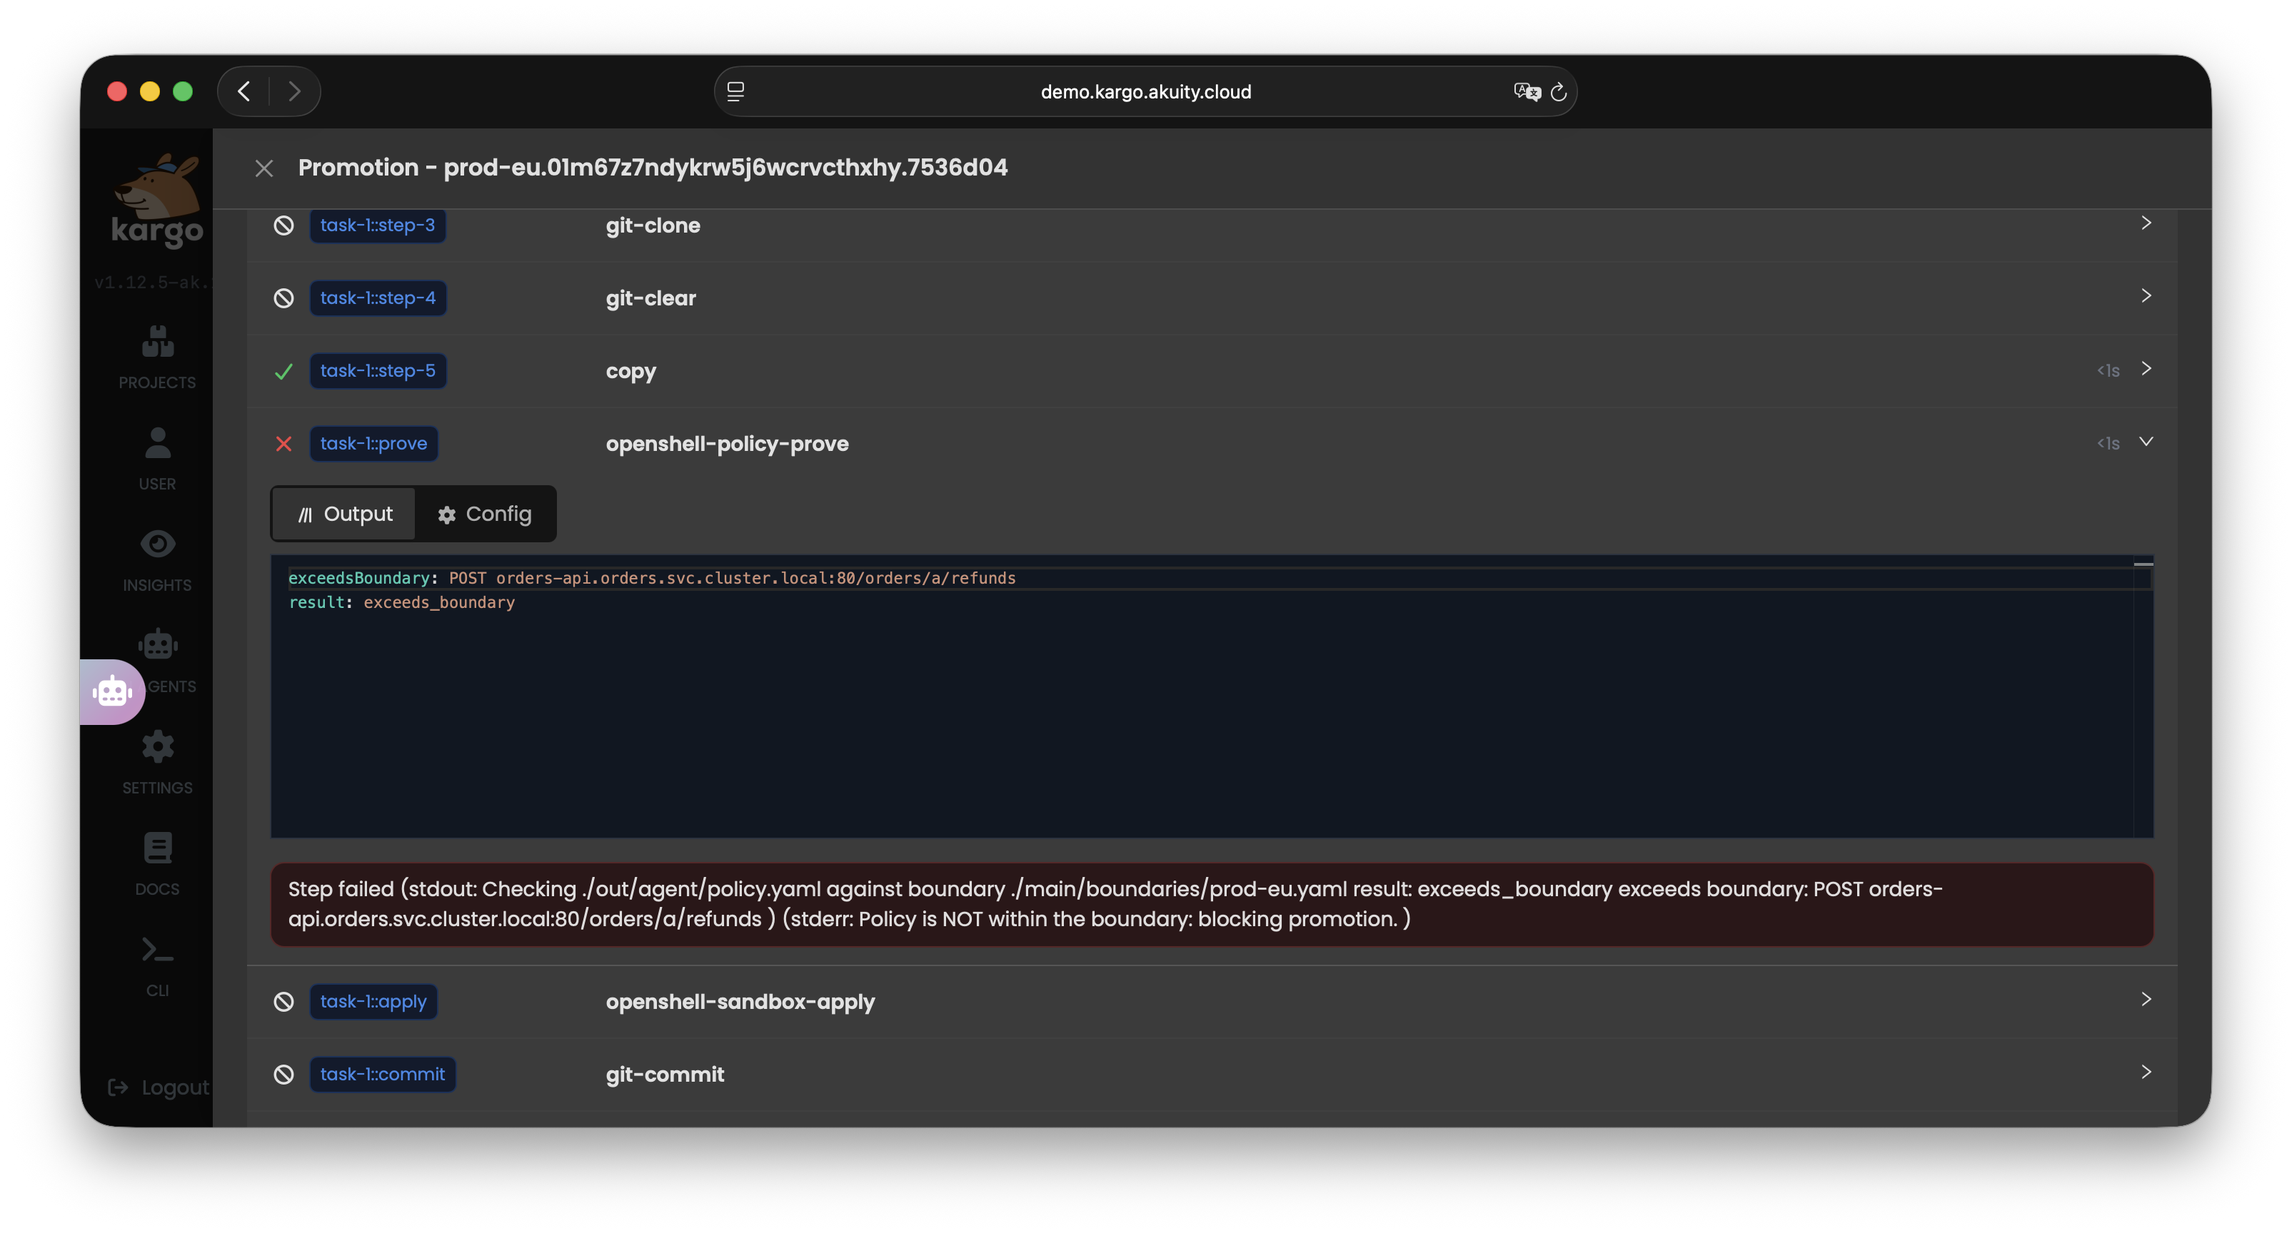
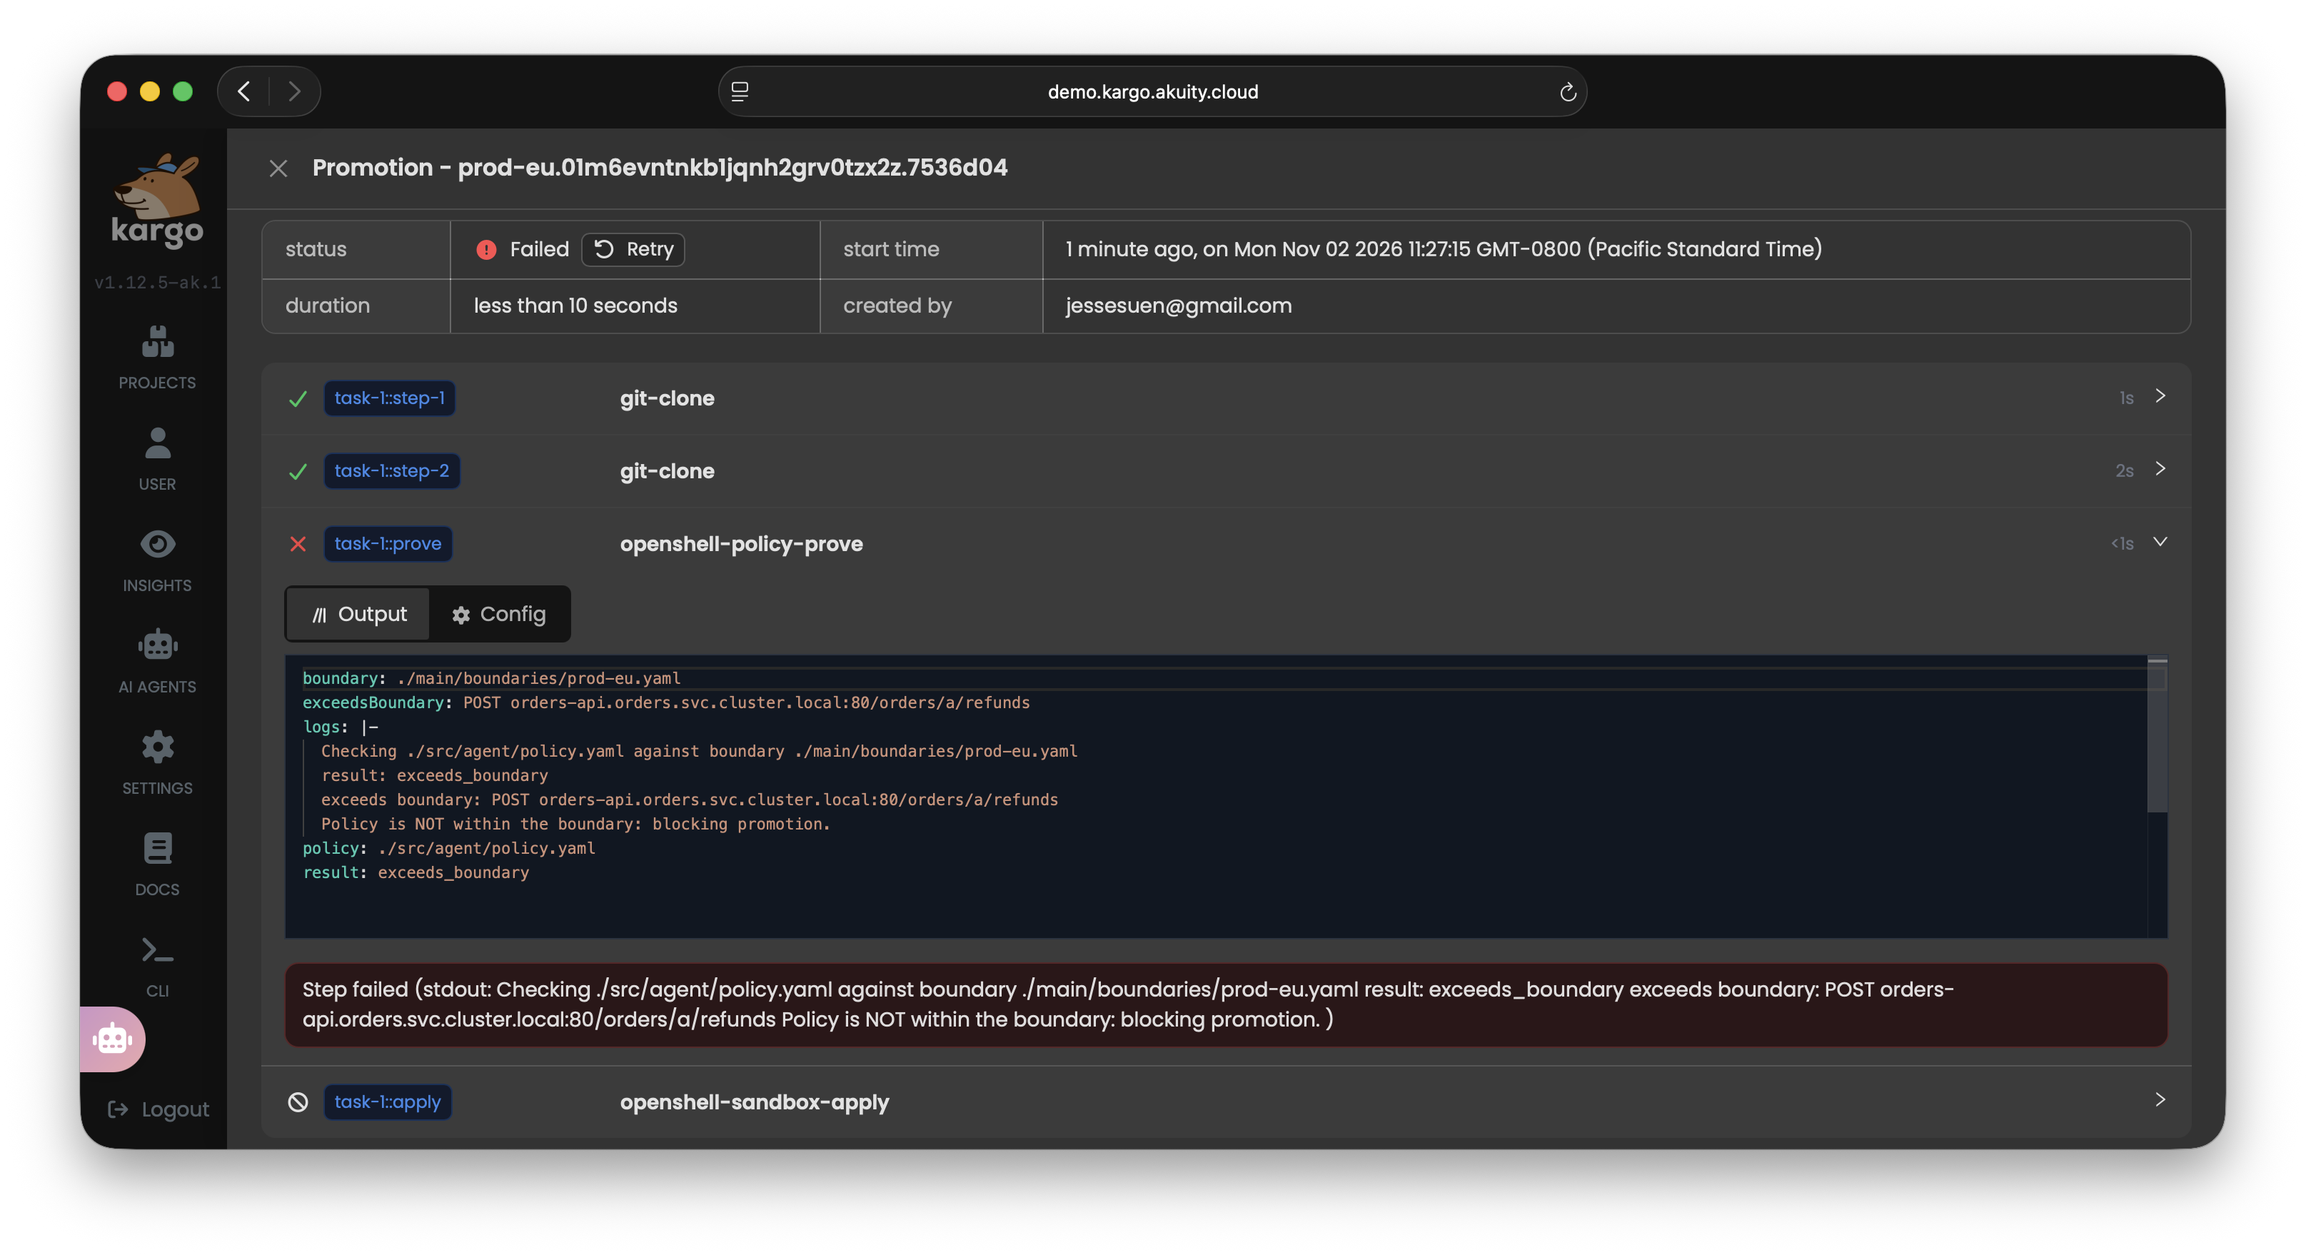
Remove stage branches, and trim the README

diff --git a/README.md b/README.md
@@ -31,7 +31,7 @@ The demo spans two repos, split by who owns what:
 | Repo | Owner | Contains |
 |---|---|---|
 | [`support-agent-demo`](https://github.com/akuity/support-agent-demo) | Agent team | The harness image and the agent bundle (`agent/`) |
-| this repo | Platform and security | The platform, the stage boundaries, the Kargo pipeline, and (optionally) the `stage/*` branches recording what runs where |
+| this repo | Platform and security | The platform, the stage boundaries, and the Kargo pipeline |
 
 The agent team can change anything about the agent, but can't change what a
 stage allows. Widening a boundary is a pull request to this repo.
@@ -59,10 +59,7 @@ flowchart LR
 Argo CD manages everything Kubernetes-native, the long-lived platform the
 agents run on:
 * **[Agent Sandbox](https://github.com/kubernetes-sigs/agent-sandbox)
-  controller:** a separate Kubernetes SIG project, not part of OpenShell. Its
-  `Sandbox` CRD and controller are the runtime OpenShell's gateway uses on
-  Kubernetes: the gateway creates `Sandbox` objects, and the controller runs
-  them as pods.
+  controller:** a Kubernetes SIG project that runs OpenShell's sandboxes as pods.
 * **[OpenShell](https://github.com/NVIDIA/OpenShell) gateway:** OpenShell's API
   server, installed from its Helm chart. It creates and manages the sandboxes
   (see [OpenShell in brief](#openshell-in-brief)).
@@ -77,8 +74,6 @@ Kargo manages the agent lifecycle itself, one version at a time. It:
 * **Applies the agent to the stage's sandbox** through the OpenShell gateway,
   creating or updating it. The prove and apply steps run as
   [Custom Steps](#custom-steps).
-* **Optionally records each stage's state in Git** (the `stage/<stage>`
-  branches), as an audit trail of what ran where.
 * **Verifies each version** by running the agent's evals against the live
   sandbox after every promotion. Freight that fails can't be promoted to the
   next stage.
@@ -166,13 +161,12 @@ variable, and the apply step passes it to the sandbox as `ORDERS_API_URL`.
 %%{init: {"themeVariables": {"fontSize": "12px"}, "flowchart": {"nodeSpacing": 20, "rankSpacing": 30, "padding": 6}}}%%
 flowchart LR
     subgraph promotion["Promotion"]
-        prove["Prove policy ⊆<br/>stage boundary"] --> apply["Apply<br/>sandbox"] --> commit["Commit<br/>stage/{stage} branch<br/>(optional)"]
+        prove["Prove policy ⊆<br/>stage boundary"] --> apply["Apply<br/>sandbox"]
     end
     subgraph verification["Verification"]
         evals["Run evals against<br/>the live sandbox"]
     end
     promotion --> verification
-    style commit stroke-dasharray: 5 5
 ```
 
 The [promotion](setup/kargo/20_promotion-task.yaml) runs these steps:
@@ -183,15 +177,12 @@ The [promotion](setup/kargo/20_promotion-task.yaml) runs these steps:
    SMT (Satisfiability Modulo Theories) solver that `policy.yaml` grants
    nothing beyond `boundaries/<stage>.yaml`. Any result other than
    `within_boundary` fails the promotion here, so the blocked version never
-   reaches the sandbox or the stage branch.
+   reaches the sandbox.
 3. **`openshell-sandbox-apply`** ([Custom Step](#custom-steps)). Runs the
    bundle on the Freight's image, by digest. Changes to the image, environment
    variables, filesystem rules or process rules recreate the sandbox, because
    OpenShell locks those when a sandbox is created. Network rules and bundle
    files are updated in place.
-4. **Commit and push** `stage/<stage>` *(optional, off by default)*, only
-   after a successful apply. See [Stage branches](#stage-branches-optional)
-   below.
 
 Once the promotion succeeds, the Stage's
 [verification](setup/kargo/30_analysis-template.yaml) runs as a separate
@@ -201,13 +192,6 @@ allow and deny probes. Freight that fails verification stays in the stage it
 reached but can't be promoted any further.
 
 Rolling back means re-promoting earlier Freight; the same steps run.
-
-> [!TIP]
-> Add a new permission as its own named network policy, as `orders_api_refunds`
-> does, rather than as another allow rule on an existing endpoint. The prover
-> checks the separate rule instantly and reports a concrete counterexample. The
-> same permission added as a third rule on the existing endpoint can make the
-> prover time out, which still blocks the promotion but explains nothing.
 
 ### Custom Steps
 
@@ -230,15 +214,14 @@ Git and let Argo CD sync it. That doesn't work for OpenShell sandboxes yet:
 So the promotion drives the gateway directly, through two
 [Kargo Enterprise Custom Steps](setup/kargo/10_custom-steps.yaml). A Custom
 Step runs a container in the promotion pod, sharing the working directory with
-the built-in steps, so it reads the bundle the `git-clone` and `copy` steps
-checked out. Both use the
+the built-in steps, so it reads the bundle the `git-clone` step checked out. Both use the
 [`openshell-tools`](images/openshell-tools/) image, which holds the OpenShell
 CLI, the prover, and the wrapper scripts that mimic the `openshell` CLI:
 
 | Step | Input | What it does | Output |
 |---|---|---|---|
-| `openshell-policy-prove` | `--policy` (the bundle's `policy.yaml`) and `--boundary` (the stage's), as for `openshell-prover check` | Runs the prover. Fails the step on anything other than `within_boundary`, and prints the counterexample when there is one | `result`; `exceedsBoundary` with the counterexample; the `policy` and `boundary` checked; `logs` |
-| `openshell-sandbox-apply` | `--name`, `--from` (the Freight's image, by digest), `--policy`, `--provider`, `--upload` (the bundle) and `--env` (the stage's Orders API URL), as for `openshell sandbox create` | Reconciles the sandbox: creates it if it's missing; deletes and recreates it if the image, the environment, or the filesystem or process rules changed; otherwise applies the network rules with `policy set --wait` and uploads the bundle, with no restart | `action` (`created`, `recreated` or `updated`) and the `reason`; the startup hash; `logs`, with each `openshell` command and its output |
+| `openshell-policy-prove` | The bundle's policy and the stage's boundary | Runs the prover. Fails the step on anything other than `within_boundary`, and prints the counterexample when there is one | `result`; `exceedsBoundary` with the counterexample; the `policy` and `boundary` checked; `logs` |
+| `openshell-sandbox-apply` | Sandbox name, the Freight's image, policy, provider, bundle, the stage's Orders API URL | Reconciles the sandbox: creates it if it's missing; deletes and recreates it if the image, the environment, or the filesystem or process rules changed; otherwise applies the network rules with `policy set --wait` and uploads the bundle, with no restart | `action` (`created`, `recreated` or `updated`) and the `reason`; the startup hash; `logs`, with each `openshell` command and its output |
 
 Both steps return a `logs` output with everything they printed, so the
 promotion's details in the Kargo UI show what each step did, even when it
@@ -248,55 +231,9 @@ succeeds.
 OpenShell doesn't have yet. In the future, this step could become "write the
 sandbox to Git", and Argo CD would sync it like any other resource.
 
-Custom Steps can't mount Secrets, so the gateway's client TLS bundle reaches
-the apply step through its config, from the `openshell-gateway-tls`
-credentials (see [Setup](#2-kargo)). Verification doesn't use a Custom Step:
-`openshell-run-evals` runs in an ordinary Job from the
-[AnalysisTemplate](setup/kargo/30_analysis-template.yaml), in the same image.
-
-### Stage branches (optional)
-
-Step 4 commits the bundle to a branch per stage (`stage/dev`,
-`stage/prod-us`, `stage/prod-eu`) in this repo. It's off by
-default: nothing reconciles from these branches, the sandbox is applied the same
-way either way, and Kargo already tracks which Freight is in each stage. What the branches add
-is a Git-native record:
-
-- `git log stage/prod-us` lists every agent version that ran there, and when.
-- `git diff stage/dev stage/prod-us` shows exactly what promoting would
-  change: prompt, tools, policy, model.
-- A version the prover blocks, or whose apply fails, never appears on the
-  branch.
-
-To turn them on, set the `stageBranches` variable to `"true"`: either its
-default in `setup/kargo/20_promotion-task.yaml`, or for a single Stage in
-`setup/kargo/50_stages.yaml`:
-
-```yaml
-promotionTemplate:
-  spec:
-    steps:
-      - task:
-          name: promote-agent
-        vars:
-          - name: stageBranches
-            value: "true"
-```
-
-Kargo then needs write access to this repo, so use your own fork (see
-[Using your own copies](#using-your-own-copies)) and give Kargo credentials for
-it:
-
-```sh
-kargo create repo-credentials --project acme-support agent-delivery-demo \
-  --git --repo-url https://github.com/<your-github-org>/agent-delivery-demo.git \
-  --username <github-username> --password <token-with-contents-write>
-```
-
-The branches also point at where this goes next. With an OpenShell operator
-(see [#1719](https://github.com/NVIDIA/OpenShell/issues/1719)), Argo CD could
-sync each sandbox from its stage branch, turning the record into the source of
-truth.
+Verification doesn't use a Custom Step: `openshell-run-evals` runs in an
+ordinary Job from the [AnalysisTemplate](setup/kargo/30_analysis-template.yaml),
+in the same image.
 
 ## What's where
 
@@ -395,17 +332,12 @@ To change the agent or the boundaries yourself, see
    ```sh
    kargo apply -f setup/kargo/
    ```
-   Kargo creates the Project first, and the numeric prefixes order the rest.
-   This doesn't include the `freight/` subdirectory. Re-run it whenever you
-   change these files.
+   Re-run it whenever you change these files. This doesn't include the `freight/` subdirectory.
 3. Create the Freight, one per agent version:
    ```sh
    kargo apply -f setup/kargo/freight/
    ```
-   Each piece of Freight pins one commit of the `support-agent-demo` repo and
-   the harness image digest, and has an alias such as `v1-initial` that the
-   walkthrough promotes by name. Kargo checks each one against the Warehouse,
-   so apply this after step 2. Do it once: Freight is immutable, so applying it
+   Apply it after step 2, and only once: Freight is immutable, so applying it
    again only reports that the aliases are already taken.
 4. Give the project the gateway's client certificate, which the Custom Steps and
    verification use to call the gateway. The values are the base64 strings from
@@ -434,7 +366,6 @@ that has passed verification in the stage before it, so wait for verification
 to finish (`kargo get stages`) before the next step. `--downstream-from dev`
 promotes to both prod stages at once.
 
-Each step below says what changed and why, what to run, and what you'll see.
 In the Kargo UI, the four pieces of Freight line up in version order, and each
 Stage shows the version it runs and whether it's verified.
 
@@ -473,17 +404,31 @@ default--support-prod-eu   True    DependenciesReady   2m
 default--support-prod-us   True    DependenciesReady   2m 
 ```
 
-Each `Sandbox` traces back to Kargo: its image is the Freight's harness image,
-pinned by digest, and its `ORDERS_API_URL` is the Stage's `ordersApiURL`
-variable:
+Each one traces back to Kargo: its image is the Freight's harness image, pinned
+by digest, and its `ORDERS_API_URL` is the Stage's `ordersApiURL` variable. An
+excerpt:
 
-```console
-$ kubectl -n openshell get sandboxes -o custom-columns='NAME:.metadata.name,IMAGE:.spec.podTemplate.spec.containers[0].image,ORDERS_API_URL:.spec.podTemplate.spec.containers[0].env[?(@.name=="ORDERS_API_URL")].value'
-NAME                       IMAGE                                                 ORDERS_API_URL
-default--support-dev       ghcr.io/akuity/support-agent-demo@sha256:8557b252…   http://orders-api.orders.svc.cluster.local
-default--support-prod-eu   ghcr.io/akuity/support-agent-demo@sha256:8557b252…   http://orders-api.orders.svc.cluster.local
-default--support-prod-us   ghcr.io/akuity/support-agent-demo@sha256:8557b252…   http://orders-api.orders.svc.cluster.local
+```yaml
+apiVersion: agents.x-k8s.io/v1beta1
+kind: Sandbox
+metadata:
+  name: default--support-prod-us
+spec:
+  operatingMode: Running
+  podTemplate:
+    spec:
+      containers:
+      - name: agent
+        image: ghcr.io/akuity/support-agent-demo@sha256:8557b252…
+        command: [/.openshell/runtime/openshell-sandbox, --bootstrap, …]
+        env:
+        - name: ORDERS_API_URL
+          value: http://orders-api.orders.svc.cluster.local
+        # …
 ```
+
+The agent's container runs OpenShell's sandbox runtime, which then starts the
+image's entrypoint, the harness.
 
 Each sandbox runs as a pair of pods: the agent (`workload`) and an OpenShell
 supervisor, which injects the API key and enforces the sandbox's policy:
@@ -502,23 +447,9 @@ os-supervisor-d73c28a0-9218-4627-9b12-bf5790f4f9e7   1/1     Running   0        
 The policy itself lives in the gateway, not on the `Sandbox` object;
 [Debugging](#debugging-with-hackopenshellsh) shows how to read it.
 
-OpenShell also creates the NetworkPolicies that make each supervisor its agent
-pod's only way out (see [OpenShell in brief](#openshell-in-brief)), which is
-why the cluster's CNI must enforce NetworkPolicy. They're coarse and the same
-for every sandbox, not generated from `policy.yaml`:
-
-```console
-$ kubectl -n openshell get networkpolicy
-NAME                                              POD-SELECTOR                                    AGE
-openshell-gateway-clients                         app.kubernetes.io/component notin (supervisor),…   2m
-openshell-sandbox-ssh                             openshell.ai/managed-by=openshell               2m
-openshell-sandbox-supervisors                     openshell.ai/boundary-role=supervisor           2m
-openshell-sandbox-workloads                       openshell.ai/boundary-role=workload             2m
-os-control-1e922bff-244c-4817-9f59-4c3514a54b53   openshell.ai/boundary-pair=1e922bff-…           2m
-os-control-d165013c-9eb5-4a9e-ab9c-89ed7ffdbf8a   openshell.ai/boundary-pair=d165013c-…           2m
-os-control-d73c28a0-9218-4627-9b12-bf5790f4f9e7   openshell.ai/boundary-pair=d73c28a0-…           2m
-```
-
+OpenShell also creates NetworkPolicies, the same for every sandbox, so that an
+agent pod can only reach the network through its supervisor. That's why the
+cluster's CNI must enforce NetworkPolicy.
 
 ### 2. `v2-model-upgrade`: a model upgrade is a release
 
@@ -598,9 +529,9 @@ What you'll see:
   loads live, with no restart. New evals check that the agent refunds a
   delivered, damaged order and won't refund one that hasn't been delivered.
 - **prod-eu fails at the prove step.** The promotion's details in the Kargo UI
-  show the prover's result and counterexample, and the steps after it skipped:
+  show the prover's result and counterexample, and the apply step skipped:
 
-  ![A prod-eu promotion in Kargo: openshell-policy-prove fails with exceeds_boundary for POST orders-api.orders.svc.cluster.local:80/orders/a/refunds, and the apply and commit steps are skipped](docs/images/exceeds-boundary.png)
+  ![A prod-eu promotion in Kargo: openshell-policy-prove fails with exceeds_boundary for POST orders-api.orders.svc.cluster.local:80/orders/a/refunds, and the apply step is skipped](docs/images/exceeds-boundary.png)
 
   The counterexample is a concrete request this version could make that the
   boundary forbids. The promotion stops before the apply step, so prod-eu's
@@ -642,8 +573,6 @@ it passes.
 ### Where to look
 
 - `kargo` promotion details, which show the prove step's output.
-- `git log stage/prod-us`, the audit trail of what ran there (with
-  [stage branches](#stage-branches-optional) on).
 - `kubectl -n orders logs deploy/orders-api`, which shows the requests the
   agent made. A request OpenShell blocked never appears here.
 - The supervisors' logs, which show each request OpenShell blocked and the
@@ -655,14 +584,6 @@ it passes.
   ```
   These are the evals' deny probes. The refund `POST` never reaches the Orders
   API log.
-- `kubectl -n openshell get sandboxes,pods`: a `Sandbox` and a supervisor pod
-  per stage. Pod ages show that in-place updates didn't restart anything.
-- `hack/openshell.sh policy get support-prod-eu --base` (see
-  [Debugging](#debugging-with-hackopenshellsh)): the policy the gateway
-  enforces, as the promotion applied it. The `Sandbox` object doesn't show it.
-  After step 4, prod-eu still has no `orders_api_refunds` rule. `--full` adds
-  the rules the Anthropic provider contributes, and `policy list` shows the
-  versions.
 
 The evals call a real model, so results can vary between runs.
 
@@ -771,9 +692,6 @@ while the gateway can still delete them, then the platform.
    kubectl delete namespace openshell orders
    kubectl label namespace <kargo-namespace> openshell.akuity.io/gateway-client-
    ```
-
-With [stage branches](#stage-branches-optional) on, also delete the
-`stage/*` branches in your fork.
 
 ## Demo-only shortcuts
 
